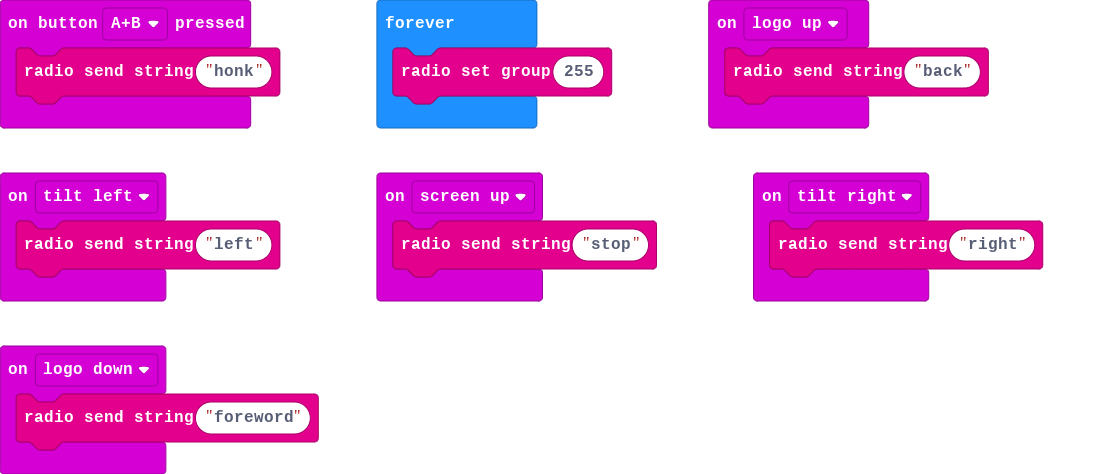
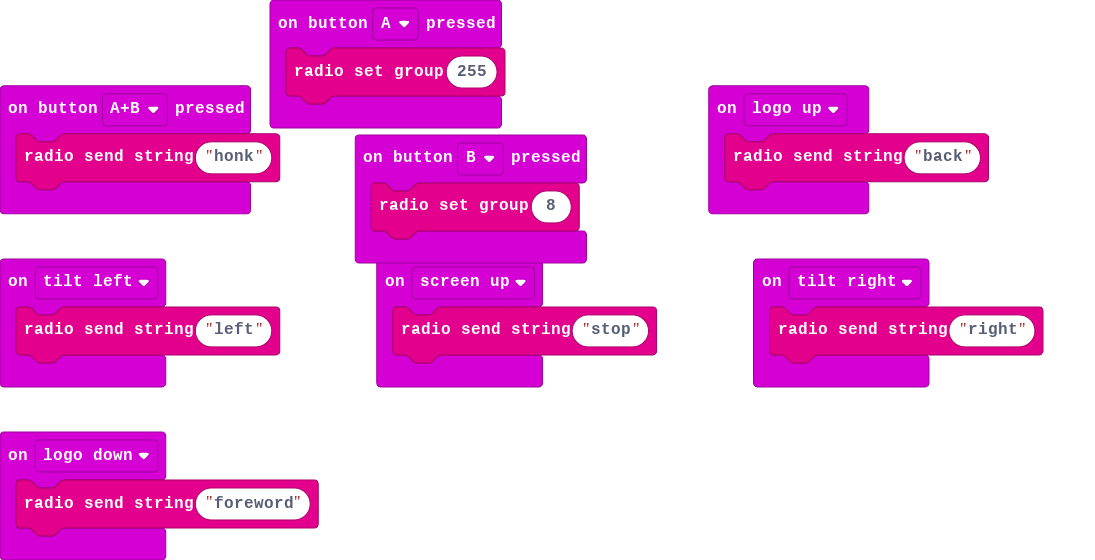
Update main.blocks, main.ts

diff --git a/main.ts b/main.ts
@@ -1,3 +1,6 @@
+input.onButtonPressed(Button.A, function () {
+    radio.setGroup(255)
+})
 input.onGesture(Gesture.LogoUp, function () {
     radio.sendString("back")
 })
@@ -10,12 +13,12 @@ input.onGesture(Gesture.ScreenUp, function () {
 input.onButtonPressed(Button.AB, function () {
     radio.sendString("honk")
 })
+input.onButtonPressed(Button.B, function () {
+    radio.setGroup(8)
+})
 input.onGesture(Gesture.TiltRight, function () {
     radio.sendString("right")
 })
 input.onGesture(Gesture.LogoDown, function () {
     radio.sendString("foreword")
-})
-basic.forever(function () {
-    radio.setGroup(255)
 })
